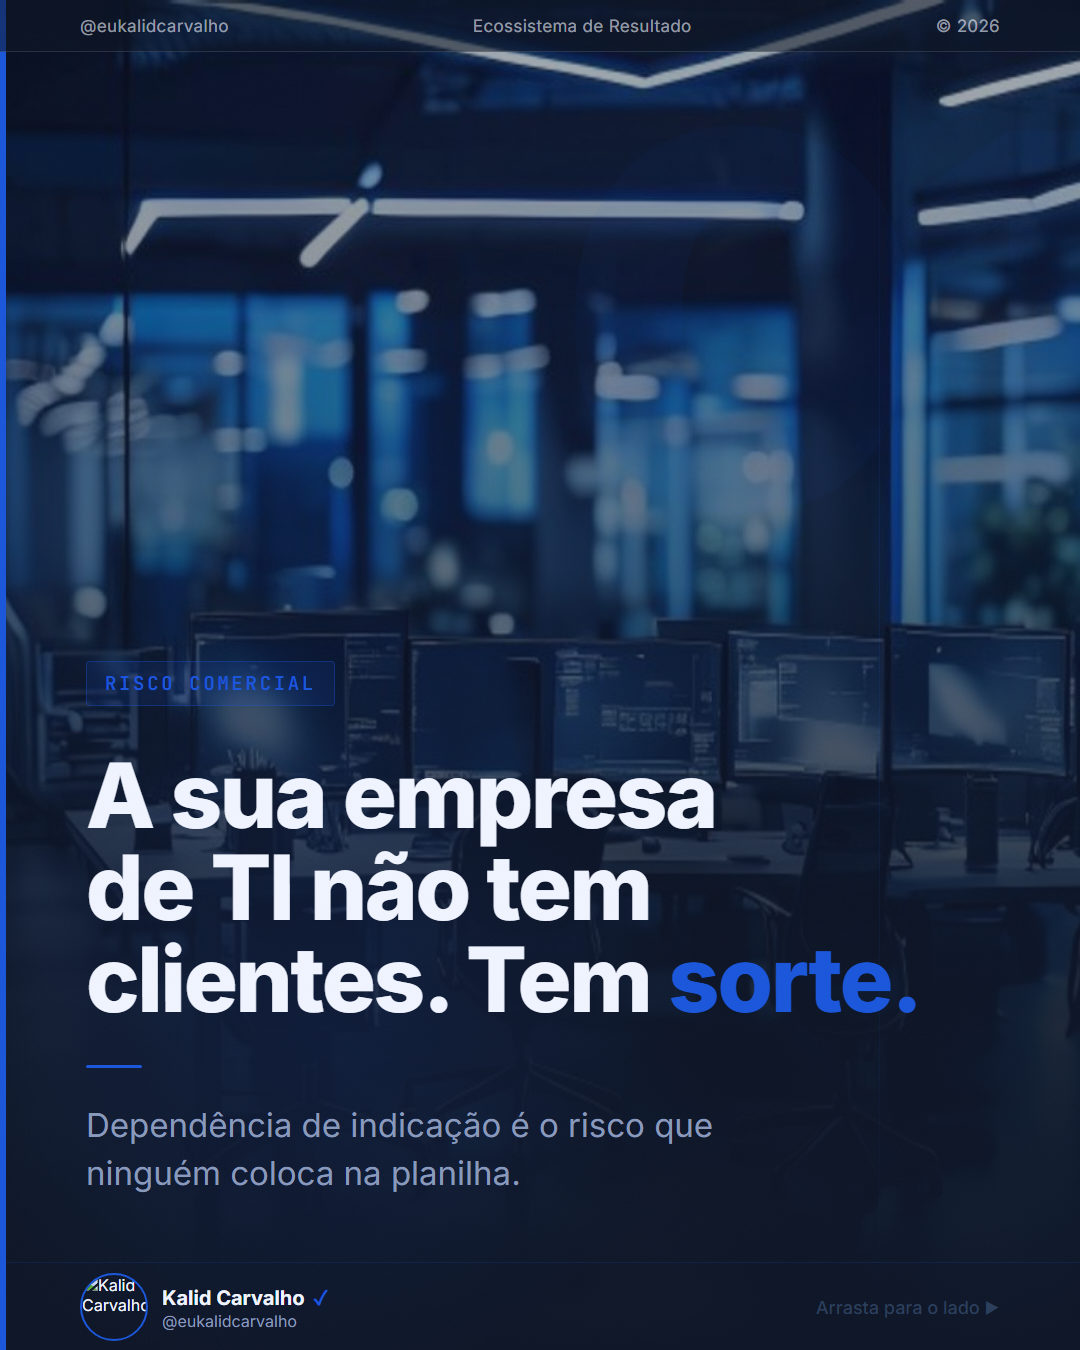
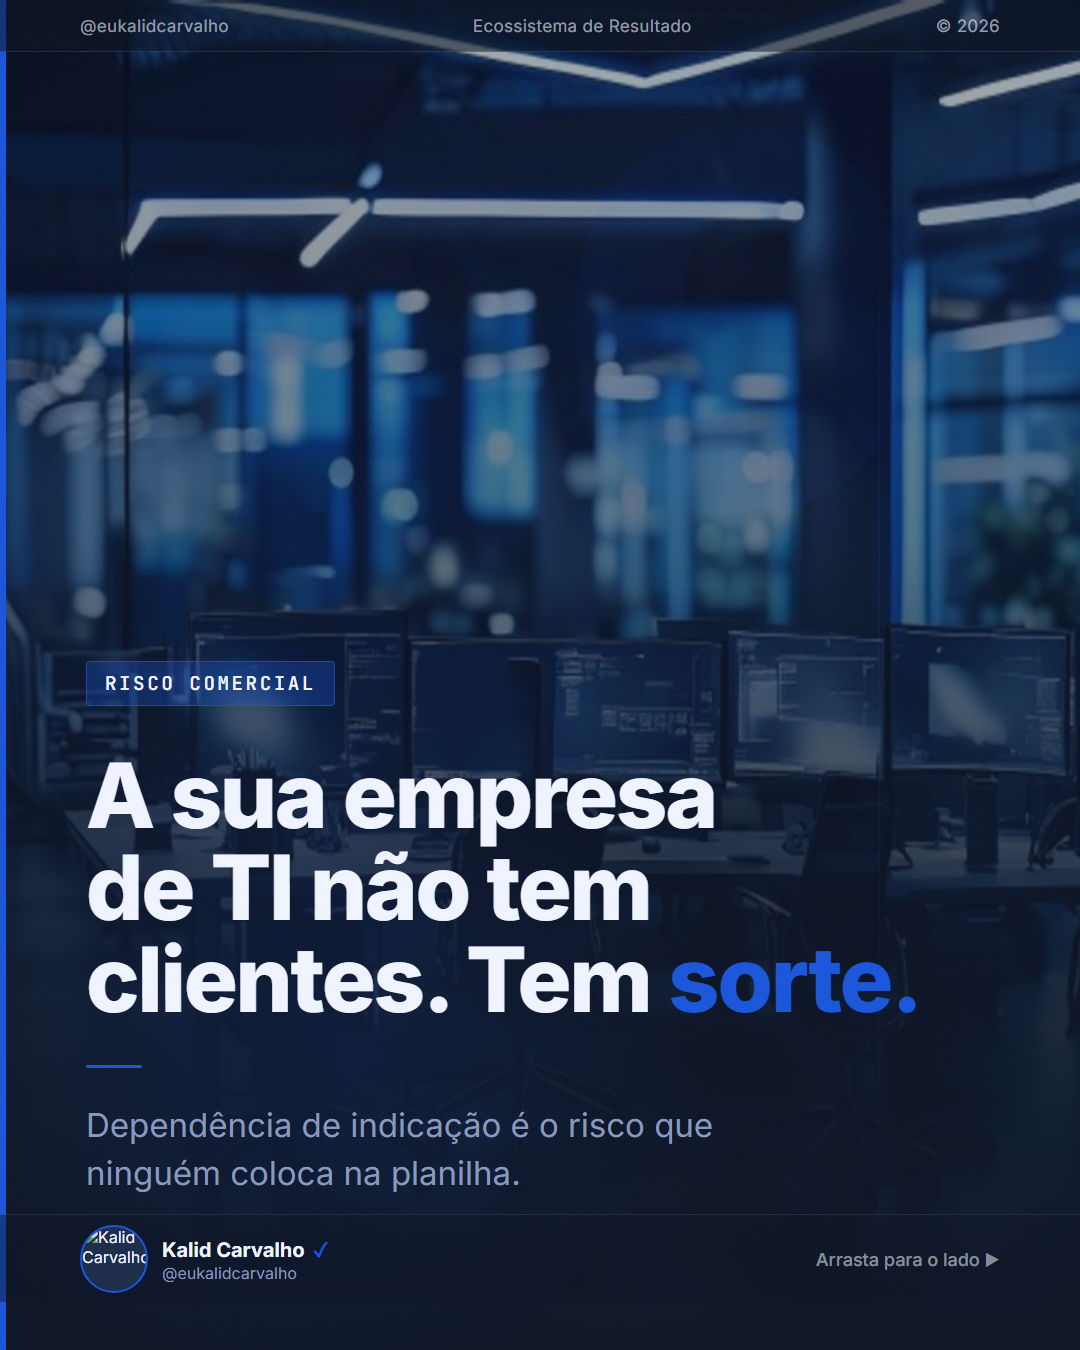
auto-sync: 2026-04-16 14:57

diff --git a/conteudo/eukalidcarvalho/carrosseis/2026-04-16/ti-indicacao/instagram/slide-01.html b/conteudo/eukalidcarvalho/carrosseis/2026-04-16/ti-indicacao/instagram/slide-01.html
@@ -109,8 +109,8 @@
     .tag {
       display: inline-flex;
       align-items: center;
-      background: rgba(26,86,219,0.12);
-      border: 1px solid rgba(26,86,219,0.35);
+      background: rgba(26,86,219,0.30);
+      border: 1px solid rgba(26,86,219,0.70);
       border-radius: 4px;
       padding: 9px 18px;
       margin-bottom: 44px;
@@ -121,7 +121,7 @@
       font-family: 'JetBrains Mono', monospace;
       font-size: 19px;
       font-weight: 600;
-      color: #1A56DB;
+      color: #F0F4FF;
       letter-spacing: 0.14em;
       text-transform: uppercase;
     }
@@ -217,20 +217,21 @@
     }
     /* === BOTTOM AUTHOR === */
     .bottom-author {
-      position: absolute; bottom: 0; left: 0; right: 0; height: 88px;
+      position: absolute; bottom: 48px; left: 0; right: 0; height: 88px;
       display: flex; align-items: center; justify-content: space-between;
       padding: 0 80px;
-      border-top: 1px solid rgba(26,86,219,0.15);
+      border-top: 1px solid rgba(255,255,255,0.1);
+      background: rgba(13,21,38,0.45);
       z-index: 15;
     }
     .ba-left { display: flex; align-items: center; gap: 14px; }
-    .ba-avatar { width: 68px; height: 68px; border-radius: 50%; border: 2px solid #1A56DB; overflow: hidden; flex-shrink: 0; }
+    .ba-avatar { width: 68px; height: 68px; border-radius: 50%; border: 2px solid #1A56DB; overflow: hidden; flex-shrink: 0; background: #1C2D4A; }
     .ba-avatar img { width: 100%; height: 100%; object-fit: cover; object-position: top center; }
     .ba-info { display: flex; flex-direction: column; gap: 1px; }
     .ba-name { font-family: 'Inter', sans-serif; font-size: 20px; font-weight: 700; color: #F0F4FF; }
     .ba-name .check { color: #1A56DB; margin-left: 4px; }
     .ba-handle { font-family: 'Inter', sans-serif; font-size: 16px; font-weight: 400; color: #8899BB; }
-    .ba-right { font-family: 'Inter', sans-serif; font-size: 18px; font-weight: 500; color: #2A3E5C; }
+    .ba-right { font-family: 'Inter', sans-serif; font-size: 18px; font-weight: 500; color: rgba(240,244,255,0.55); }
   </style>
 </head>
 <body>
@@ -264,7 +265,7 @@
   </div>
   <div class="bottom-author">
     <div class="ba-left">
-      <div class="ba-avatar"><img src="../../../../marca/foto-perfil.png" alt="Kalid Carvalho"></div>
+      <div class="ba-avatar"><img src="../../../../../marca/foto-perfil.png" alt="Kalid Carvalho"></div>
       <div class="ba-info">
         <span class="ba-name">Kalid Carvalho <span class="check">✓</span></span>
         <span class="ba-handle">@eukalidcarvalho</span>
